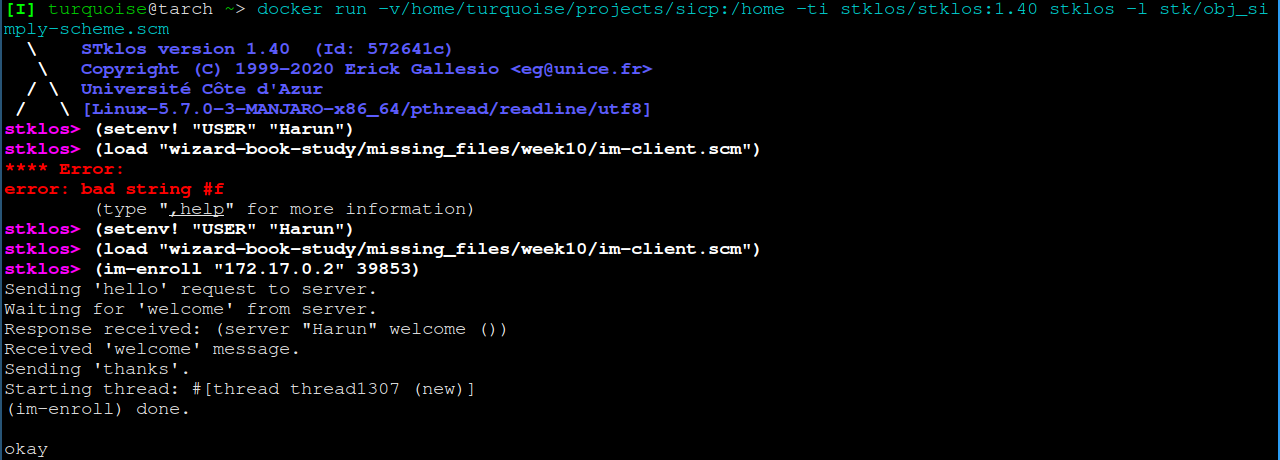
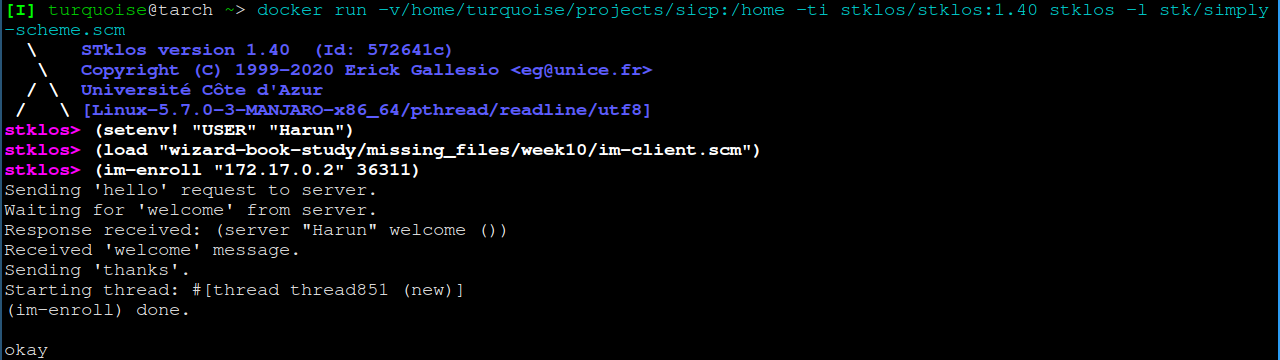
week10: Update README.md
- Added motivation for the port
- Restructured the topics
- Clarified set-up of instant messaging programs
- Replaced the screenshots

Changed region(s): [[0.0, 0.0, 0.875, 0.9167], [0.9062, 0.0, 1.0, 0.0611], [0.0, 0.9472, 0.0312, 1.0]]

diff --git a/missing_files/week10/README.md b/missing_files/week10/README.md
@@ -1,29 +1,19 @@
 # Week 10 Instant Messaging Programs
 
-## Server
-Load im-server.scm and start the server with: `(im-server-start)`.
-The server will print something like "Server IP address: 172.17.0.2, server port: 36395".
-These are needed to connect to the server as a client.
-Keep in mind that your server may print a different IP address and port number.
-Use them to connect to the server as a client.
-![Server Setup](./server-setup.png)
+The scheme interpreter [UCB Scheme](https://people.eecs.berkeley.edu/~bh/61a-pages/Scheme/), used in the lectures,
+is a modified version of [STklos](https://www.stklos.net/).
+UBC Scheme provides primitves like when-port-readable and when-socket-ready, which are not availabe in STklos.
+Unfortunately UCB Scheme is no longer maintained.
 
-## Client
-First set your user with setenv!, for example `(setenv! "USER" "Harun")`,
-will set the environment variable "USER" to "Harun".
-Now load im-client.scm and connect to the server via im-enroll `(im-enroll "172.17.0.2" 36395)`.
-Sometimes loading im-client.scm after setting the USER environment variable will lead to an error,
-in that case just load im-client.scm again.
-![Client Setup](./client-setup.png)
+Therefore the instant messaging programs, in this repository, were ported to STklos version 1.40.
+They will probably also work with later versions.
+The implemented primitives reside in `im-server.scm` and `im-client.scm` respectively, because it is not possible to separate them into a file.
+When separated into a file, either the added functions won't be recognized or not executed at all.
+It is not clear why STklos is behaving in this way.
 
-## Example Session
-![Demo](./demo.png)
+## STklos for dummies
 
-
-### stklos for dummies
-
-
-#### pull the latest image from docker
+### Pull the latest image from docker
 
 ``` bash
 $ docker pull stklos/stklos:1.60          # grab the 1.40 version of STklos
@@ -35,11 +25,11 @@ stklos> (version)
 stklos> (exit)
 ```
 
-#### run a simple instance of stklos
+### Run a simple instance of STklos
 
 docs: https://stklos.net/
 
-#### run stklos within a particular directory
+### Run STklos within a particular directory
 
 Navigate to the directory with the code you want to run
 
@@ -52,3 +42,29 @@ stklos> (load "im-server.scm")
 stklos> (im-server)
 ```
 
+## Setting up the instant messaging programs
+Ensure that all files reside in the same directory.
+`simply-scheme.scm` is needed, load them by appending `stklos -l /path/to/simply-scheme.scm` to the STklos docker command.
+
+### Server
+Load im-server.scm, while residing in the STklos REPL and start the server with: `(im-server-start)`.
+You will know that you are in a REPL, when your prompt changes to *stklos>*.
+The server will print something like "Server IP address: 172.17.0.2, server port: 36395".
+These are needed to connect to the server as a client.
+Keep in mind that your server may print a different IP address and port number.
+Use them to connect to the server as a client.
+![Server Setup](./server-setup.png)
+
+### Client
+First set your user with setenv!, for example `(setenv! "USER" "Harun")`,
+will set the environment variable "USER" to "Harun".
+Now load im-client.scm and connect to the server via im-enroll `(im-enroll "172.17.0.2" 36395)`.
+Sometimes loading im-client.scm after setting the USER environment variable will lead to an error,
+in that case just repeat the aforementioned.
+This means, set the environment variable "USER" with a value and load im-client.scm.
+![Client Setup](./client-setup.png)
+
+### Sending Messages
+To send a message to another client the im function has to be used,
+`(im "Brian" "Hello")` will send a "Hello" message to the client named Brian.
+![Demo](./demo.png)
